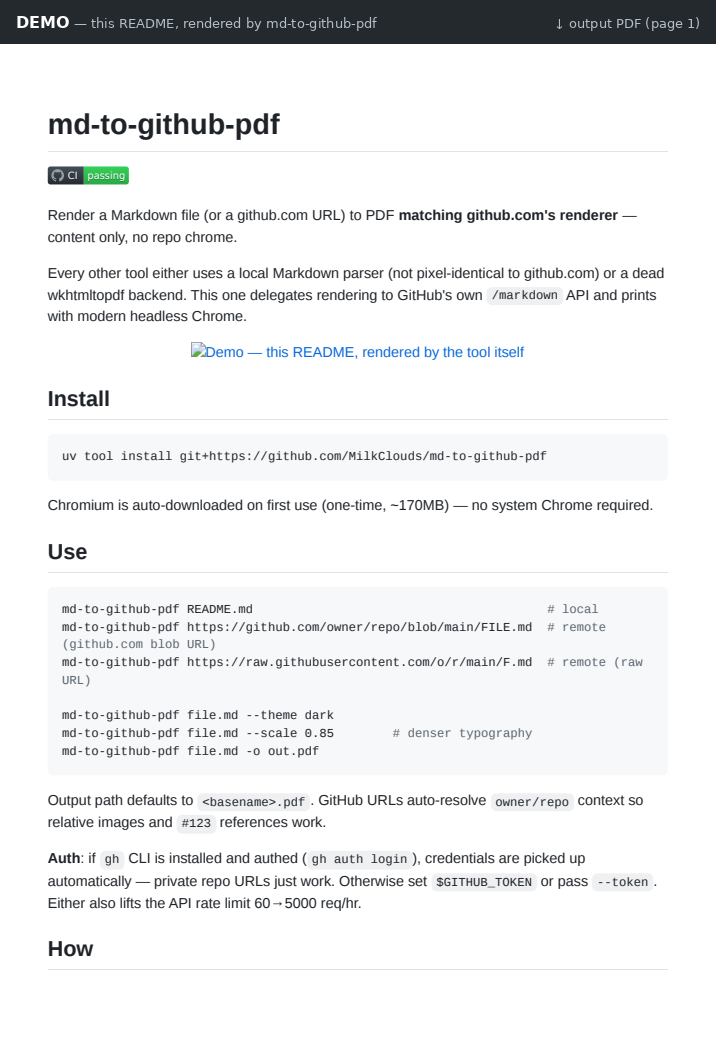
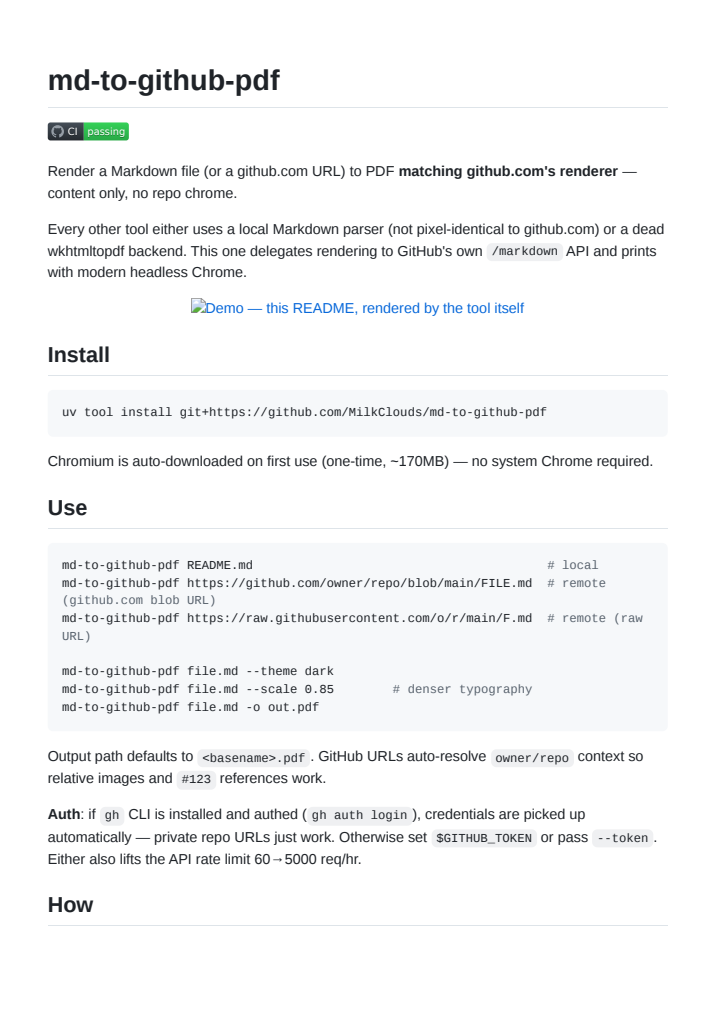
docs: revert image overlays, label demo via markdown caption instead
The DEMO banner and the macOS window frame were both unusual choices.
The conventional approach is to leave the screenshot pristine and
provide context in surrounding markdown. README now has a "Demo"
heading and a one-line caption above the image; demo.png is the raw
rendered page, nothing drawn on top.

diff --git a/README.md b/README.md
@@ -6,8 +6,12 @@ Render a Markdown file (or a github.com URL) to PDF **matching github.com's rend
 
 Every other tool either uses a local Markdown parser (not pixel-identical to github.com) or a dead wkhtmltopdf backend. This one delegates rendering to GitHub's own `/markdown` API and prints with modern headless Chrome.
 
+### Demo
+
+Below is **this very README**, rendered by `md-to-github-pdf` — no manipulation, just the tool's output:
+
 <p align="center">
-  <img src="docs/demo.png" alt="Demo — this README, rendered by the tool itself" width="480">
+  <img src="docs/demo.png" alt="this README rendered by md-to-github-pdf" width="480">
 </p>
 
 ## Install